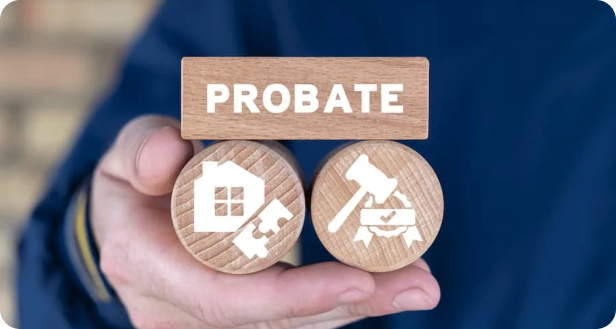
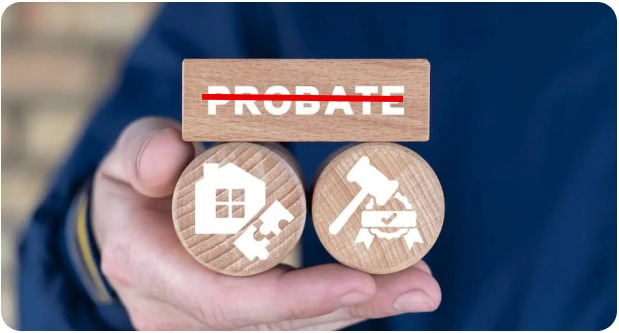
Update the caption on our website from "Probate/Transmission" to "Transmission Services".

diff --git a/skills/system/run-workflow/SKILL.md b/skills/system/run-workflow/SKILL.md
@@ -1,0 +1,192 @@
+---
+name: run-workflow
+description: 'How to write and run a dynamic workflow script with the `run_workflow` tool: a Python script that orchestrates many agents with `agent`, `parallel`, `pipeline`, and `phase`. Use when a task splits into many independent or staged pieces of agent work (fan out over files, modules, bugs, or review angles, then aggregate), or when the user asks for a workflow. Don''t use for a single delegated task (use a subagent) or for legacy workflow files (see migrate-workflows).'
+metadata:
+    namespace: system
+---
+# Dynamic workflows with `run_workflow`
+
+A workflow is a short Python script that the `run_workflow` tool executes. The
+script decides which agents to start, in what order, and what to do with their
+results. Use it instead of many manual subagent calls when the orchestration
+itself is code: loops over a list, fan-out then aggregate, or staged pipelines.
+
+## Steps
+
+1.  Pass the script inline as `Script`, or write it to a file (for example in
+    the conversation scratch directory) and pass its absolute path as
+    `ScriptPath`. Set exactly one of them; a file is easier to fix and rerun.
+2.  Call `run_workflow(Script="...", Description="...")` or
+    `run_workflow(ScriptPath="/abs/path/workflow.py", Description="...")`.
+    `Description` is a one-line goal shown in the UI.
+    The workflow runs in the background, and you are notified when it ends.
+    For a quick script, such as a `call_tool` fan-out, set
+    `WaitMsBeforeAsync` (up to 10000) to get the result in the same turn if it
+    finishes in time.
+    To pass inputs, set `Args` to a JSON object; the script reads it as the
+    `args` dict. When `ScriptPath` is a saved workflow's entry script, `Args`
+    is validated against the args schema in its `workflow.json`.
+3.  Read the tool result: it contains the `log()` output (`Logs:`) and what the
+    script printed (`Output:`). Each agent is also linked from the workflow
+    step, so the user can open its conversation.
+4.  If the tool returns an error, fix the script at the reported line and run
+    it again.
+
+## Script rules
+
+The script runs in its own `python3` process, which needs Python 3.8 or later
+on `PATH`:
+
+-   `await` works at the top level, and you can define `async def` helpers.
+-   Installed library workflows are importable by name (`import <library>` or
+    `from <library> import <name>`); library modules see the same primitives as
+    the script.
+-   What the script prints (`print()`, `stderr`, child-process output, and the
+    `repr` of a trailing expression) is returned in the tool result's `Output:`
+    section (and appended to the error when the workflow fails).
+-   An uncaught exception stops the workflow and reports the script line.
+-   `CONVERSATION_ID` and `STEP_INDEX` identify the `run_workflow` step.
+    `WORKSPACES` is a tuple of the workspace directories, primary first (empty
+    if there are none).
+-   The working directory is `Cwd` if given, else `WORKSPACES[0]`, so relative
+    paths resolve against it. Local modules are not importable.
+
+## Primitives
+
+| Primitive | Behavior |
+| --- | --- |
+| `log(*args)` | Adds a line to the workflow output and the UI. |
+| `phase(name)` | Starts a named phase; later logs and agents group under it. |
+| `agent(prompt=None, schema=None, role=None, type_name="self", workspace="inherit", model=None)` | Defines an agent; nothing runs yet. `await agent(prompt, schema)` runs it once and returns its result. `a = agent(...)` then `await a(prompt, schema)` runs one turn in a conversation kept across calls. |
+| `parallel(items, fn)` | Promise that calls `fn(item)` for each item and awaits all results concurrently; results are in item order. If one fails, the rest are cancelled. |
+| `pipeline(items, fn)` | Promise that calls and awaits `fn(item)` one item at a time; results are in item order. |
+| `trajectory(last=None, types=None, tools=None, min_index=None, max_index=None)` | `await trajectory()` returns steps before this `run_workflow` call started, oldest first. `min_index` and `max_index` bound `step.index` (inclusive); `types` and `tools` filter by step type or tool name; `last` keeps the last N matching steps. |
+
+Arguments:
+
+-   `type_name`: the agent type to run. `"self"` uses the current agent's
+    configuration; any available custom agent name also works.
+-   `workspace`: `"inherit"` (the current workspace), `"branch"` (a new isolated
+    clone, for agents that edit code in parallel), or `"share"` (a new workspace
+    that shares the underlying repository). Other values are errors.
+-   `schema` (required): a JSON schema (dict or string) for the agent's result.
+    The agent returns the result by calling its `finish` tool, which checks it
+    against the schema, and `await agent(...)` returns the parsed value. An
+    agent that ends without calling `finish` fails the workflow. Use
+    `{"type": "string"}` for a free-form answer.
+-   `role`: an optional short title for the agent's card, such as
+    `"Security reviewer"`.
+-   `model`: the agent's model tier: `"inherit"` (default, your model),
+    `"flash_lite"`, `"flash"`, or `"pro"`. Use a lighter tier for simple,
+    high-fan-out work.
+-   `fn`: usually a `lambda` that returns `agent(...)`, or an `async def`
+    helper that awaits several agents. It must return something awaitable:
+    an `agent()` or a call on one, a nested `parallel()` / `pipeline()`, or
+    an `async def` call. Build per-item prompts and roles with f-strings.
+
+Awaiting the same agent twice runs it once and returns the same result. An
+`agent()` that is never awaited or called never runs, so always `await` it, or
+pass it to `parallel` / `pipeline` and await that.
+
+The workflow step shows one card per agent, in the order agents start, titled
+with its `role`, or else the first line of its prompt, so set a role or start
+each prompt with a short line that names the job.
+
+## Agents that keep their context
+
+When one agent should do several related turns, such as a reviewer that checks
+the fixes for the bugs it found, call it instead of awaiting it. Each
+`a(prompt, schema)` is lazy like an awaited `agent()` and returns that turn's
+`finish` result; the agent's own `prompt`, if any, is its standing instructions
+and leads the first turn. `schema` on a call defaults to the agent's. Turns on
+one agent run one at a time, in the order they were started. A failed turn
+raises, but the agent stays usable. An agent is either awaited or called, not
+both. `del a` ends the agent, unless something else, such as a lambda, still
+references it; every agent ends when the workflow ends.
+
+```python
+reviewer = agent("You review Go code for correctness.", role="Reviewer")
+bugs = await reviewer("List the bugs in foo.go.", {"type": "array", "items": {"type": "string"}})
+fixes = await parallel(bugs, lambda b: agent(f"Fix: {b}", {"type": "string"}))
+ok = await reviewer(f"Fixes made: {fixes}. Are all your bugs fixed?", {"type": "boolean"})
+del reviewer
+```
+
+## Calling tools from the script
+
+Where the `run_workflow` tool description lists tools for `call_tool`, the
+script can call them directly:
+
+-   `call_tool(name, **args)` returns a promise like `agent()` does. Awaiting it
+    runs the tool with the arguments you would pass to it directly and returns
+    the tool's output as a `str`.
+-   It raises `ToolError` (with `.tool` and `.message`) if the tool fails or
+    the call is denied. `.denied` is `True` when a pre-tool hook or the
+    permission check rejected the call before the tool ran, so a script can
+    skip denied calls and still fail on real errors.
+-   The user cannot be asked anything from a workflow: a call that needs user
+    approval that has not already been granted is denied.
+-   Tool outputs are not shown to you unless the script logs or prints them.
+
+## Reading earlier conversation steps
+
+Pass inputs you already have in `Args` (or inline in the script). Use
+`await trajectory(...)` when the script needs to inspect steps from earlier in
+this conversation—such as mining a failed `run_command` output without
+rerunning it—and pass only the relevant slice into child `agent()` prompts.
+
+Each returned `Step` is a `dict` that also supports attribute access (missing
+fields return `None` as attributes):
+
+-   `index` (`int`): 0-based step index.
+-   `type` (`str`): step type, e.g. `"USER_INPUT"`, `"PLANNER_RESPONSE"`,
+    `"SYSTEM_MESSAGE"`, or `"GENERIC"` (tool calls).
+-   `status` (`str`): e.g. `"DONE"`, `"ERROR"`, or `"CLEARED"`.
+-   Message steps set `text` (`str`); tool steps set `tool` (`str`), `args`
+    (parsed `dict`), and `output` (`str`, truncated at 200k characters).
+
+```python
+steps = await trajectory(tools=["run_command"], last=20)
+errors = [s.output for s in steps if s.status == "ERROR" and s.output]
+log(f"Found {len(errors)} failed command(s)")
+```
+
+`trajectory()` only returns steps before the `run_workflow` call started (steps
+added while the workflow runs in the background are not included). Older tool
+steps evicted from memory have `status == "CLEARED"` and `output == None`; read
+the conversation's `transcript.jsonl` / `transcript_full.jsonl` when you need
+cleared tool outputs or steps added after the workflow started.
+
+## Behavior to know
+
+-   Workflow agents are main agents, not subagents. They are hidden from the
+    conversation list and reachable from the workflow step. An awaited agent
+    is single-use; a called agent lasts until deleted or the workflow ends.
+-   `await agent(...)` returns when the agent's run ends, with the result it
+    passed to `finish`.
+-   If one agent in `parallel` fails, the whole call fails and the other agents
+    in it are cancelled. Stopping the parent conversation stops all running
+    workflow agents.
+-   Agents do not see the script or each other. Put all the context an agent
+    needs in its prompt, and ask for a short, well-defined output.
+
+## Example
+
+Fan out over a list that an agent produces:
+
+```python
+phase("Discover")
+files = await agent(
+    "List the Go files under pkg/foo that call Bar(). Paths only.",
+    schema={"type": "array", "items": {"type": "string"}},
+)
+
+phase("Review")
+reviews = await parallel(files, lambda f: agent(
+    f"Review {f} for misuse of Bar(). Reply in 3 bullets or 'OK'.",
+    schema={"type": "string"},
+    role=f"Review {f}",
+))
+for r in reviews:
+    log(r)
+```
